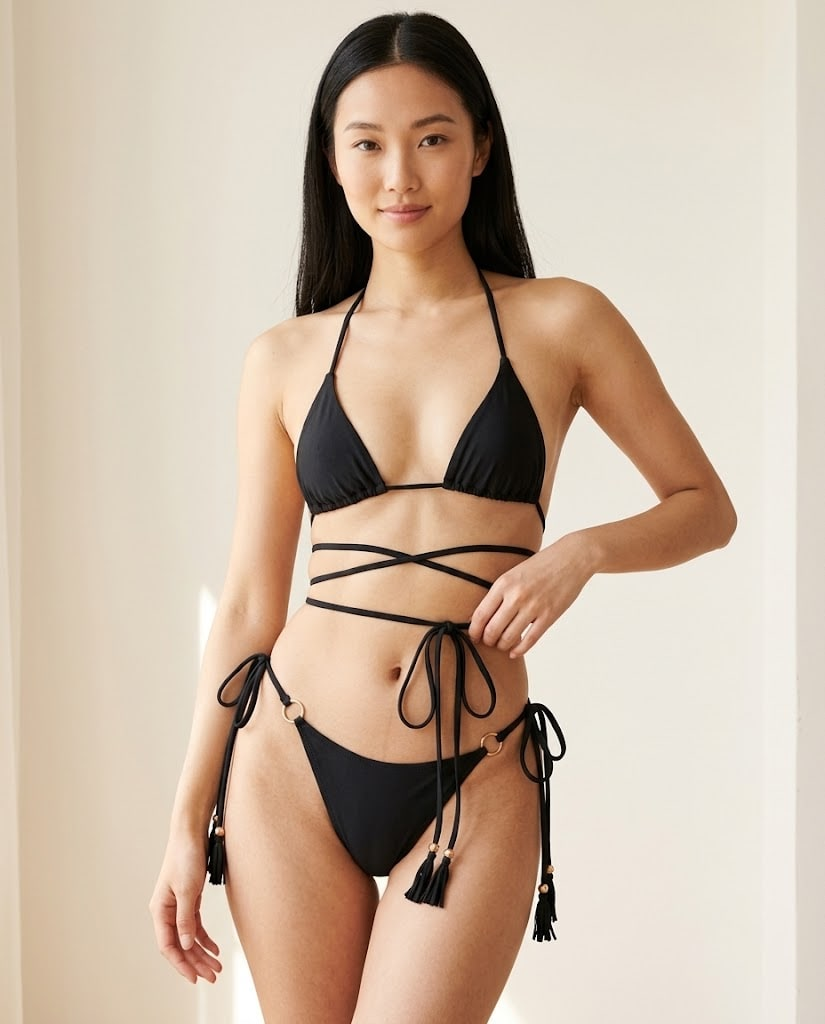
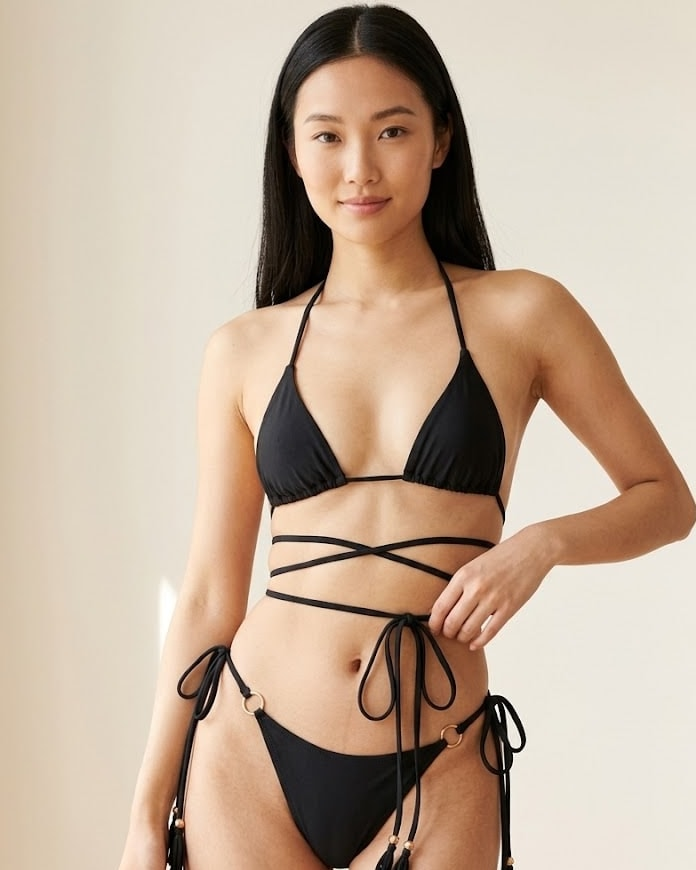
Kundenstimmen luxurioeser, Shop weiss, ohne Kategorie-Intro, Sirena-Bild beschnitten
- "Was Kaeuferinnen sagen": Titel in Serifenschrift statt fetter Versalien,
  Stimmen ohne Box/Sprechblase nur mit feiner Linie, kleinere Sterne, Name und
  Produkt in Mono-Versalien. Herkunftsangabe bleibt.
- Shop und Kategorieseiten mit weissem Hintergrund; Einleitungstext unter dem
  Kategorie-Titel entfernt (Ratgeber unter dem Raster bleibt).
- Sirena-Model-Bild: heller Wandstreifen am rechten (und linken) Rand
  weggeschnitten, 4:5 beibehalten.

diff --git a/src/components/ui/CustomerVoices.tsx b/src/components/ui/CustomerVoices.tsx
@@ -66,7 +66,7 @@ function flag(country: string | null): string {
 
 function Stars({ value }: { value: number }) {
   return (
-    <span aria-hidden="true" style={{ color: "#D4AF37", fontSize: "15px", letterSpacing: "2px" }}>
+    <span aria-hidden="true" style={{ color: "#B8922A", fontSize: "11px", letterSpacing: "3px" }}>
       {"★".repeat(Math.max(1, Math.min(5, value)))}
       <span style={{ color: "rgba(26,48,64,0.18)" }}>{"★".repeat(5 - Math.max(1, Math.min(5, value)))}</span>
     </span>
@@ -84,11 +84,10 @@ function VoiceCard({ voice, locale, copy = false }: { voice: Voice; locale: Loca
       <Stars value={voice.rating} />
       <blockquote
         style={{
-          margin: "14px 0 0",
+          margin: "16px 0 0",
           fontFamily: "var(--font-dm-serif)",
-          fontStyle: "italic",
-          fontSize: "17px",
-          lineHeight: 1.5,
+          fontSize: "19px",
+          lineHeight: 1.55,
           color: "#1A3040",
         }}
       >
@@ -97,10 +96,11 @@ function VoiceCard({ voice, locale, copy = false }: { voice: Voice; locale: Loca
       <figcaption
         style={{
           marginTop: "auto",
-          paddingTop: "18px",
-          fontSize: "11px",
+          paddingTop: "22px",
+          fontSize: "9.5px",
           fontFamily: "var(--font-geist-mono)",
-          letterSpacing: "0.06em",
+          letterSpacing: "0.18em",
+          textTransform: "uppercase",
           color: "rgba(26,48,64,0.5)",
         }}
       >
@@ -179,14 +179,14 @@ export default function CustomerVoices({
       >
         <div className="px-6 md:px-10 reveal">
           <p
-            className="text-[10px] tracking-[0.35em] uppercase mb-2 text-center"
-            style={{ color: "#00B4C5", fontFamily: "var(--font-geist-mono)" }}
+            className="text-[10px] tracking-[0.35em] uppercase mb-3 text-center"
+            style={{ color: "rgba(26,48,64,0.5)", fontFamily: "var(--font-geist-mono)" }}
           >
             {t("label")}
           </p>
           <h2
-            className="font-black uppercase text-2xl md:text-3xl text-center mb-12"
-            style={{ fontFamily: "var(--font-archivo-black), sans-serif", color: "#1A3040" }}
+            className="text-center mb-14"
+            style={{ fontFamily: "var(--font-dm-serif)", fontWeight: 400, fontSize: "clamp(1.9rem, 3.6vw, 2.8rem)", lineHeight: 1.15, color: "#1A3040" }}
           >
             {t("title")}
           </h2>
@@ -227,14 +227,14 @@ export default function CustomerVoices({
     >
       <div className="max-w-4xl mx-auto reveal">
         <p
-          className="text-[10px] tracking-[0.35em] uppercase mb-2 text-center"
-          style={{ color: "#00B4C5", fontFamily: "var(--font-geist-mono)" }}
+          className="text-[10px] tracking-[0.35em] uppercase mb-3 text-center"
+          style={{ color: "rgba(26,48,64,0.5)", fontFamily: "var(--font-geist-mono)" }}
         >
           {t("label")}
         </p>
         <h2
-          className="font-black uppercase text-2xl md:text-3xl text-center mb-10"
-          style={{ fontFamily: "var(--font-archivo-black), sans-serif", color: "#1A3040" }}
+          className="text-center mb-10"
+          style={{ fontFamily: "var(--font-dm-serif)", fontWeight: 400, fontSize: "clamp(1.9rem, 3.6vw, 2.8rem)", lineHeight: 1.15, color: "#1A3040" }}
         >
           {t("title")}
         </h2>
@@ -277,10 +277,9 @@ export default function CustomerVoices({
               <Stars value={v.rating} />
               <blockquote
                 style={{
-                  margin: "16px 0 0",
+                  margin: "18px 0 0",
                   fontFamily: "var(--font-dm-serif)",
-                  fontStyle: "italic",
-                  fontSize: "clamp(1.05rem, 2.4vw, 1.5rem)",
+                  fontSize: "clamp(1.15rem, 2.4vw, 1.6rem)",
                   lineHeight: 1.5,
                   color: "#1A3040",
                 }}
@@ -288,10 +287,12 @@ export default function CustomerVoices({
                 «{v.comment}»
               </blockquote>
               <p
-                className="mt-5 text-[11px]"
+                className="mt-6"
                 style={{
                   fontFamily: "var(--font-geist-mono)",
-                  letterSpacing: "0.08em",
+                  fontSize: "9.5px",
+                  letterSpacing: "0.18em",
+                  textTransform: "uppercase",
                   color: "rgba(26,48,64,0.5)",
                 }}
               >

diff --git a/src/app/[locale]/[category]/page.tsx b/src/app/[locale]/[category]/page.tsx
@@ -48,7 +48,8 @@ export default async function CategoryPage({
         type="application/ld+json"
         dangerouslySetInnerHTML={{ __html: JSON.stringify(categoryJsonLd(loc, slug, text.h1, products)) }}
       />
-      <div style={{ background: "#F8F3E8" }}>
+      {/* Shop-Seiten weiss (Joel, 12.10.) */}
+      <div style={{ background: "#FFFFFF" }}>
         <header className="max-w-6xl mx-auto px-6 md:px-10 pt-32 pb-10 text-center">
           <nav aria-label="Breadcrumb" className="text-[10px] font-mono uppercase tracking-[0.25em] mb-6" style={{ color: "rgba(26,48,64,0.45)" }}>
             <Link href={`/${loc}/collection`} style={{ color: "inherit" }}>Shop</Link>
@@ -67,9 +68,6 @@ export default async function CategoryPage({
           >
             {text.h1}
           </h1>
-          <p className="mt-5 mx-auto max-w-2xl text-sm md:text-base leading-relaxed" style={{ color: "rgba(26,48,64,0.7)" }}>
-            {text.intro}
-          </p>
         </header>
 
         <CollectionGrid products={products} locale={loc} showFilters={false} />

diff --git a/src/app/globals.css b/src/app/globals.css
@@ -194,28 +194,12 @@ body {
      darunter stünde Leere. */
   display: flex;
   flex-direction: column;
-  width: clamp(280px, 80vw, 400px);
-  margin-right: 24px;
-  background: #FFFFFF;
-  border: 1px solid rgba(26, 48, 64, 0.08);
-  border-radius: 18px;
-  padding: 28px 28px 30px;
-  box-shadow: 0 2px 16px rgba(26, 48, 64, 0.06);
-}
-
-/* Sprechblasen-Zipfel unten links */
-.voice-card::after {
-  content: "";
-  position: absolute;
-  left: 34px;
-  bottom: -9px;
-  width: 18px;
-  height: 18px;
-  background: #FFFFFF;
-  border-right: 1px solid rgba(26, 48, 64, 0.08);
-  border-bottom: 1px solid rgba(26, 48, 64, 0.08);
-  transform: rotate(45deg);
-  border-bottom-right-radius: 3px;
+  width: clamp(260px, 78vw, 380px);
+  margin-right: 56px;
+  /* Luxuriös und ruhig wie bei Hunza G: keine Box, keine Sprechblase –
+     nur eine feine Linie über jeder Stimme */
+  border-top: 1px solid rgba(26, 48, 64, 0.18);
+  padding: 26px 0 4px;
 }
 
 /* ── Kundenstimmen: eine Stimme blendet ein, dann die nächste ───── */

diff --git a/src/components/sections/CollectionGrid.tsx b/src/components/sections/CollectionGrid.tsx
@@ -232,7 +232,7 @@ export default function CollectionGrid({ products, locale, showFilters = true, s
             position: "sticky",
             top: `${HEADER_H}px`,
             zIndex: 40,
-            background: stuck ? DARK_BLUE : "#F8F3E8",
+            background: stuck ? DARK_BLUE : "#FFFFFF",
             borderBottom: `1px solid ${stuck ? "rgba(248,243,232,0.08)" : "rgba(26,48,64,0.08)"}`,
             transition: "background 0.25s ease",
             padding: "0 clamp(1.5rem, 5vw, 2.5rem)",

diff --git a/src/app/[locale]/collection/page.tsx b/src/app/[locale]/collection/page.tsx
@@ -43,7 +43,7 @@ export default async function CollectionPage({
           style={{
             position: "relative",
             zIndex: 1,
-            background: "#F8F3E8",
+            background: "#FFFFFF",
             boxShadow: "0 -30px 60px rgba(5,25,35,0.28)",
           }}
         >
